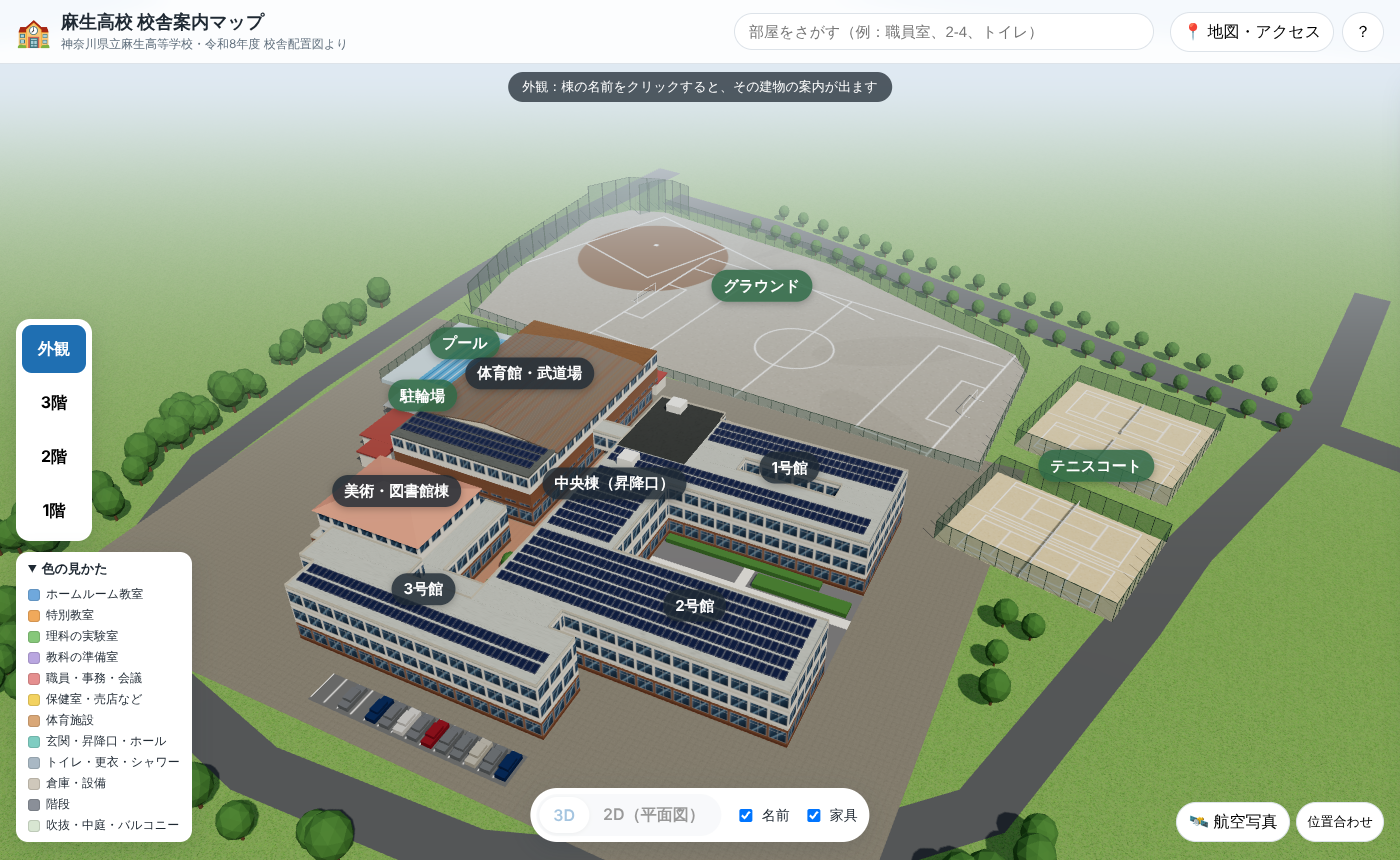
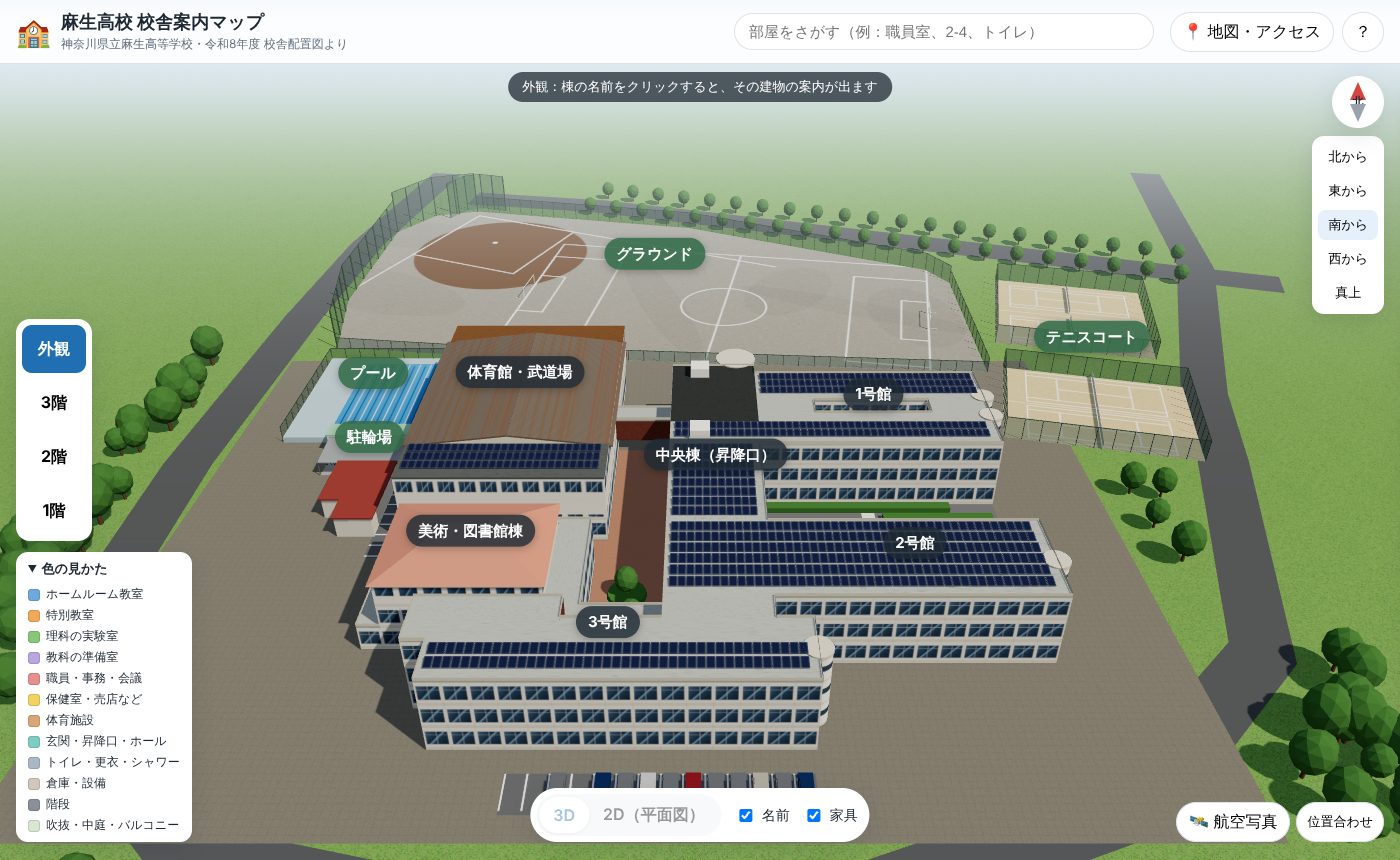
3D写真をもとに外壁を再現、見る方向のボタンと方位磁針を追加
- 教室棟の長い面は白、東西の端の壁と中央棟北側・渡り廊下は茶色いレンガタイル
- 棟の端の白い丸い階段塔、中央棟北東の白い円筒形の塔を追加
- 中央棟の3階の北端を1・2階とそろえた
- 中庭の植え込みを写真に合わせた（だ円形の植え込み、細い植え込み）
- 北・東・南・西・真上から見るボタンと方位磁針

Claude-Session: https://claude.ai/code/session_01M9wHQs55mZUAc8DpBE4YQk

diff --git a/js/app.js b/js/app.js
@@ -18,6 +18,7 @@ const Z = (r) => (r - R_MID) * RH;
 const base = (f) => (f - 1) * FH;
 const rectOf = (o) => ({ x0: X(o.c0), x1: X(o.c1 + 1), z0: Z(o.r0), z1: Z(o.r1 + 1) });
 const key = (c, r) => c + "," + r;
+const inCells = (c, r, [c0, r0, c1, r1]) => c >= c0 && c <= c1 && r >= r0 && r <= r1;
 
 // ---------- 部屋データ ----------
 const ROOMS = ROOMS_RAW.map((r) => {
@@ -169,7 +170,6 @@ const yFromFloor = (m) => H - m * PX; // 床からの高さ(m) → canvas の y
 // 外壁の色（白い壁と茶色いタイルの壁）
 const PALETTE = {
   white: { base: "#f1eee7", band: "#e1ddd3", line: "#d3cec2", tile: false },
-  brown: { base: "#8d5f42", band: "#7b5038", line: "#6d4631", tile: true },
 };
 function wallBase(g, p) {
   g.fillStyle = p.base; g.fillRect(0, 0, W, H);
@@ -201,7 +201,40 @@ function makeSchoolTex(p) {
   });
 }
 const texSchool = makeSchoolTex(PALETTE.white);
-const texSchoolBrown = makeSchoolTex(PALETTE.brown);
+
+// 茶色いレンガタイルの壁（端の壁。窓はほとんどない）
+const texBrick = canvasTex(W, H, (g) => {
+  g.fillStyle = "#7e4535"; g.fillRect(0, 0, W, H);
+  const bh = 0.12 * PX, bw = 0.3 * PX;
+  for (let row = 0, y = 0; y < H; y += bh, row++) {
+    for (let x = -(row % 2) * bw / 2; x < W; x += bw) {
+      const v = Math.random() * 18 - 9;
+      g.fillStyle = `rgb(${126 + v},${69 + v * 0.6},${53 + v * 0.5})`;
+      g.fillRect(x + 1, y + 1, bw - 2, bh - 2);
+    }
+  }
+  // 床の位置の目地（少し濃い帯）
+  g.fillStyle = "rgba(60,25,15,0.35)"; g.fillRect(0, yFromFloor(0.05), W, 4);
+});
+
+// 丸い階段塔（白い壁に横長の窓の帯）
+const texStack = canvasTex(256, H, (g, w, h) => {
+  g.fillStyle = "#f3f1ec"; g.fillRect(0, 0, w, h);
+  noise(g, w, h, 0.05);
+  g.fillStyle = "#5b6d7e"; g.fillRect(0, yFromFloor(2.4), w, 0.55 * PX);
+  g.fillStyle = "rgba(255,255,255,0.35)"; g.fillRect(0, yFromFloor(2.4), w, 4);
+  g.fillStyle = "#d9d5cc"; g.fillRect(0, yFromFloor(1.15), w, 3);
+  g.fillStyle = "#dcd8cf"; g.fillRect(0, yFromFloor(0.35), w, 0.35 * PX);
+}, true);
+texStack.repeat.set(4, 1);
+const texTower = canvasTex(256, H, (g, w, h) => {
+  g.fillStyle = "#f3f1ec"; g.fillRect(0, 0, w, h);
+  noise(g, w, h, 0.05);
+  // 横じまの帯（手すり壁）と窓
+  g.fillStyle = "#c9c6bd"; for (const m of [0.95, 2.35]) g.fillRect(0, yFromFloor(m), w, 4);
+  g.fillStyle = "#5b6d7e"; g.fillRect(0, yFromFloor(2.25), w, 0.7 * PX);
+}, true);
+texTower.repeat.set(6, 1);
 
 const makeGymLow = (p) => canvasTex(W, H, (g) => {
   wallBase(g, p);
@@ -214,7 +247,6 @@ const makeGymLow = (p) => canvasTex(W, H, (g) => {
   for (let i = 0; i < 6; i++) g.fillRect(i * W / 6, 0, 2, yFromFloor(1.1));
 });
 const texGymLow = makeGymLow(PALETTE.white);
-const texGymLowBrown = makeGymLow(PALETTE.brown);
 const texGymHigh = canvasTex(W, H, (g) => {
   wallBase(g, PALETTE.white);
   const x = 0.3 * PX, w = 2.4 * PX, y = yFromFloor(3.2), h = 1.9 * PX;
@@ -265,7 +297,7 @@ const texRoofTop = canvasTex(128, 128, (g, w, h) => {
 
 // ---------- 外壁を作る ----------
 // 輪郭セルの集合から、外側に面した辺を探して壁の板にする
-function boundarySegments(cells) {
+function boundarySegments(cells, classify = null) {
   const segs = [];
   const dirs = [
     { dc: 0, dr: -1, n: [0, -1] }, // 北（図面の上）
@@ -281,8 +313,9 @@ function boundarySegments(cells) {
       const horizontal = d.dr !== 0;
       const line = horizontal ? r + (d.dr > 0 ? 1 : 0) : c + (d.dc > 0 ? 1 : 0);
       const pos = horizontal ? c : r;
-      const gk = `${di}|${line}|${style}`;
-      if (!groups.has(gk)) groups.set(gk, { di, line, style, pos: [] });
+      const st = classify ? classify(c, r, d, style) : style;
+      const gk = `${di}|${line}|${st}`;
+      if (!groups.has(gk)) groups.set(gk, { di, line, style: st, pos: [] });
       groups.get(gk).pos.push(pos);
     });
   }
@@ -400,12 +433,13 @@ function solarPanels(rects, y) {
 }
 const matSlab = new THREE.MeshStandardMaterial({ color: 0xeeebe4, roughness: 0.95 });
 const wallMat = (map) => new THREE.MeshStandardMaterial({ map, roughness: 0.82, metalness: 0.0 });
+const matStack = new THREE.MeshStandardMaterial({ map: texStack, roughness: 0.8 });
+const matTower = new THREE.MeshStandardMaterial({ map: texTower, roughness: 0.8 });
 const MAT_WALL = {
   school: wallMat(texSchool),
   high: wallMat(texHigh),
-  schoolBrown: wallMat(texSchoolBrown),
+  brick: wallMat(texBrick),
   gym2: wallMat(texGymLow),
-  gym2Brown: wallMat(texGymLowBrown),
   gym3: wallMat(texGymHigh),
 };
 
@@ -415,15 +449,31 @@ const buildingGroup = new THREE.Group();
 scene.add(buildingGroup);
 
 for (const f of [1, 2, 3]) {
-  const segs = boundarySegments(OCC[f]);
+  // 外壁の色分け（info.js の FACADE で設定）
+  const facade = (c, r, d, style) => {
+    if (style === "gym") return "gym" + f;
+    if (style === "high") return "high";
+    if (OPEN_COURTS.some((rc) => inCells(c + d.dc, r + d.dr, rc))) return "school"; // 光庭のまわりは白
+    if (FACADE.brick.some((rc) => inCells(c, r, rc))) return "brick";
+    if (d.dc !== 0 && FACADE.endWallWings.some((rc) => inCells(c, r, rc))) return "brick"; // 棟の東西の端
+    return "school";
+  };
+  const segs = boundarySegments(OCC[f], facade);
   const ext = new THREE.Group();
   const byStyle = {};
-  for (const s of segs) {
-    // 外壁の色分け（info.js の FACADE で設定）
-    let st = s.style === "gym" ? "gym" + f : s.style;
-    if (st === "school" && FACADE.brownFloors.includes(f)) st = "schoolBrown";
-    if (st === "gym2" && FACADE.gymBrownFloors.includes(2)) st = "gym2Brown";
-    (byStyle[st] ||= []).push(s);
+  for (const s of segs) (byStyle[s.style] ||= []).push(s);
+  // 白い丸い階段塔
+  for (const t of FACADE.roundStairs) {
+    const m = new THREE.Mesh(new THREE.CylinderGeometry(t.r, t.r, FH, 28), t.tower ? matTower : matStack);
+    m.position.set(t.x, base(f) + FH / 2, t.z);
+    m.castShadow = m.receiveShadow = true;
+    ext.add(m);
+    if (f === 3) {
+      const cap = new THREE.Mesh(new THREE.CylinderGeometry(t.r + 0.1, t.r + 0.1, 0.5, 28), matParapet);
+      cap.position.set(t.x, base(f) + FH + 0.25, t.z);
+      cap.castShadow = true;
+      ext.add(cap);
+    }
   }
   for (const [st, list] of Object.entries(byStyle)) {
     const m = new THREE.Mesh(wallGeometry(list, base(f), FH), MAT_WALL[st] || MAT_WALL.school);
@@ -628,12 +678,22 @@ scene.add(outdoor);
   flatRect(24.5, 26.5, Z(32), Z(47), walk, -0.185);
   flatRect(X(42), X(66), 2.5, 4.5, walk, -0.185);
   const hedge = new THREE.MeshStandardMaterial({ color: 0x4f7d3a, roughness: 1 });
-  for (const [x0, x1, z0, z1] of [[9.5, 38, -3.3, -1.7], [27.5, 44, -0.6, 2.2], [11, 23, 6.5, 8.5]]) {
+  // 1号館ぞいと2号館ぞいの細い植え込み
+  for (const [x0, x1, z0, z1] of [[10, 44, -3.4, -2.4], [30, 44, 13.6, 14.6]]) {
     const m = new THREE.Mesh(new THREE.BoxGeometry(x1 - x0, 0.9, z1 - z0), hedge);
     m.position.set((x0 + x1) / 2, 0.25, (z0 + z1) / 2);
     m.castShadow = m.receiveShadow = true;
     outdoor.add(m);
   }
+}
+
+// 中庭の東西の通路のまんなかにある、だ円形の植え込み
+{
+  const m = new THREE.Mesh(new THREE.CylinderGeometry(1, 1, 0.9, 24), new THREE.MeshStandardMaterial({ color: 0x4a7a36, roughness: 1 }));
+  m.scale.set(5, 1, 1.4);
+  m.position.set(35, 0.25, 3.5);
+  m.castShadow = m.receiveShadow = true;
+  outdoor.add(m);
 }
 
 // 光庭の芝生
@@ -973,9 +1033,10 @@ function showSite(it) {
   flyTo(new THREE.Vector3(it.x + 30, 50, it.z + 55), new THREE.Vector3(it.x, 0, it.z));
 }
 
-function openPanel() { panel.classList.add("open"); }
+function openPanel() { panel.classList.add("open"); document.body.classList.add("panel-open"); }
 function closePanel() {
   panel.classList.remove("open");
+  document.body.classList.remove("panel-open");
   if (state.selected?.mesh) {
     state.selected.mesh.material.emissive.setHex(0x000000);
     state.selected.label?.classList.remove("selected");
@@ -1057,6 +1118,18 @@ document.getElementById("labels-toggle").addEventListener("change", (e) => { lab
 document.getElementById("furniture-toggle").addEventListener("change", (e) => {
   for (const f of [1, 2, 3]) layers.furniture[f].visible = e.target.checked;
 });
+
+// ---------- 見る方向 ----------
+const DIRS = {
+  n: [0, 95, -175], s: [0, 95, 125], e: [160, 95, -25], w: [-160, 95, -25], top: [0, 230, -24.9],
+};
+document.querySelectorAll(".dir-btns button").forEach((b) => b.addEventListener("click", () => {
+  if (state.view === "2d" && state.floor !== 0) setView("3d");
+  const [x, y, z] = DIRS[b.dataset.dir];
+  const ty = state.floor ? base(state.floor) : 0;
+  flyTo(new THREE.Vector3(x, y + ty, z), new THREE.Vector3(0, ty, -25), 900);
+}));
+const compassEl = document.getElementById("compass");
 
 // ---------- 航空写真 ----------
 const ALIGN_KEY = "asao-aerial-align";
@@ -1173,6 +1246,9 @@ function tick(now) {
     if (k >= 1) anim = null;
   }
   const cam = useCamera();
+  // 方位磁針（画面の上がどの方角か）
+  const az = cam === ortho ? 0 : controls3d.getAzimuthalAngle();
+  compassEl.style.transform = `rotate(${THREE.MathUtils.radToDeg(az)}deg)`;
   (cam === ortho ? controls2d : controls3d).update();
   renderer.render(scene, cam);
   labelRenderer.render(scene, cam);

diff --git a/index.html b/index.html
@@ -57,6 +57,17 @@
 
     <p id="floor-note" class="floor-note"></p>
 
+    <div class="dir-box">
+      <div id="compass" class="compass" title="上が北"><span>北</span></div>
+      <div class="dir-btns" aria-label="見る方向">
+        <button data-dir="n">北から</button>
+        <button data-dir="e">東から</button>
+        <button data-dir="s">南から</button>
+        <button data-dir="w">西から</button>
+        <button data-dir="top">真上</button>
+      </div>
+    </div>
+
     <details class="legend" open>
       <summary>色の見かた</summary>
       <ul id="legend-list"></ul>
@@ -103,6 +114,7 @@
     <ul class="help">
       <li><b>外観</b>：校舎全体を立体で見られます。建物や「1号館」などの名前を押すと、その建物の案内が出ます。</li>
       <li><b>1階・2階・3階</b>：その階の部屋が色分けで表示されます。部屋を押すと紹介と、近くのトイレ・階段が出ます。</li>
+      <li><b>見る方向</b>：右上の「北から」「東から」などのボタンで、その方角から校舎を見られます。丸い方位磁針の赤い先が北です。</li>
       <li><b>3D / 2D</b>：2Dにすると、上から見た平面図（案内図）になります。</li>
       <li><b>動かし方</b>：ドラッグで回転、右ドラッグ（スマホは2本指）で移動、ホイール（スマホはピンチ）で拡大・縮小。</li>
       <li><b>検索</b>：上の検索欄に「職員室」「2-4」などと入れると、その場所へ移動します。</li>
@@ -110,7 +122,7 @@
       <li><b>家具</b>：各階の表示では、教室の机・椅子・黒板、実験台、本棚なども表示されます。下の「家具」のチェックで消せます。</li>
       <li><b>リンク</b>：部屋の紹介にある「リンクをコピー」で、その部屋を開いた状態のURLを共有できます（QRコードにして掲示するのもおすすめです）。</li>
     </ul>
-    <p class="muted">部屋の位置・大きさは学校の校舎配置図（Excel）から読み取っています。階段の位置、家具の並び、外壁の窓・まわりの木は見やすさのためのイメージです。グラウンド・テニスコート・プール・駐輪場の位置や屋根の色は、Googleマップの航空写真から読み取ったおおよそのものです。外壁の色分けは推定です。</p>
+    <p class="muted">部屋の位置・大きさは学校の校舎配置図（Excel）から読み取っています。階段の位置、家具の並び、外壁の窓・まわりの木は見やすさのためのイメージです。グラウンド・テニスコート・プール・駐輪場の位置や屋根の色は、Googleマップの航空写真から読み取ったおおよそのものです。外壁の色は Googleマップの3D表示の写真から読み取ったものです。</p>
   </dialog>
 
   <script type="module" src="js/app.js"></script>

diff --git a/css/style.css b/css/style.css
@@ -126,6 +126,26 @@ main { position: fixed; inset: 0; }
 .legend ul { list-style: none; margin: 8px 0 0; padding: 0; display: grid; gap: 4px; }
 .legend li { display: flex; align-items: center; gap: 6px; }
 
+/* ---------- 方角 ---------- */
+.dir-box { position: absolute; right: 16px; top: 76px; z-index: 10; display: flex; flex-direction: column; align-items: flex-end; gap: 8px; }
+.compass {
+  width: 52px; height: 52px; border-radius: 50%; background: #fff; box-shadow: var(--shadow);
+  position: relative; transition: transform .1s linear;
+}
+.compass::before {
+  content: ""; position: absolute; left: 50%; top: 6px; transform: translateX(-50%);
+  border-left: 8px solid transparent; border-right: 8px solid transparent; border-bottom: 18px solid #d64541;
+}
+.compass::after {
+  content: ""; position: absolute; left: 50%; bottom: 6px; transform: translateX(-50%);
+  border-left: 8px solid transparent; border-right: 8px solid transparent; border-top: 18px solid #9aa3ad;
+}
+.compass span { position: absolute; left: 0; right: 0; top: 18px; text-align: center; font-size: 11px; font-weight: 700; color: #1f2933; }
+.dir-btns { display: flex; flex-direction: column; gap: 4px; background: #fff; padding: 6px; border-radius: 12px; box-shadow: var(--shadow); }
+.dir-btns button { border: 0; background: none; padding: 6px 10px; border-radius: 8px; font-size: 13px; }
+.dir-btns button:hover { background: var(--accent-soft); }
+#panel.open ~ .dir-box, body.panel-open .dir-box { display: none; }
+
 /* ---------- 航空写真 ---------- */
 .aerial-box {
   position: absolute; right: 16px; bottom: 18px; z-index: 12; max-width: 300px;
@@ -212,6 +232,9 @@ dialog::backdrop { background: rgba(20, 30, 40, 0.45); }
   .floor-btn { width: 52px; height: 40px; font-size: 14px; }
   .legend { display: none; }
   .aerial-box { bottom: 74px; right: 10px; }
+  .dir-box { top: 112px; right: 10px; }
+  .compass { width: 44px; height: 44px; }
+  .dir-btns button { padding: 4px 8px; font-size: 12px; }
   #align-panel { width: min(300px, calc(100vw - 20px)); }
   .view-bar { bottom: 14px; gap: 8px; }
   .check { font-size: 12px; }

diff --git a/README.md b/README.md
@@ -11,11 +11,14 @@
 - **校舎のまわり**：グラウンド（野球・サッカー）、テニスコート、プール、駐輪場（推定）、並木。位置は航空写真から読み取ったもので、`js/info.js` の `SITE` で変えられます。
 - **屋根**：航空写真に合わせて、1・2・3号館の太陽光パネル、中央棟の黒い屋根、体育館の茶色い金属屋根、図書室の棟のピンクの寄棟屋根を再現しています。
 - **航空写真**：国土地理院の航空写真を地面に表示し、「位置合わせ」で校舎と重ねられます。合わせた数字を `js/info.js` の `AERIAL_ALIGN` に書くと全員の画面に反映されます。
+- **見る方向**：右上の「北から・東から・南から・西から・真上」で視点を切り替えられます。方位磁針で北の向きがわかります。
 - **地図・アクセス**：Googleマップ（航空写真）と所在地・アクセス情報。
 
 | 3D（外観） | 2D（平面図） |
 | --- | --- |
 | ![3D](docs/screenshot-3d.png) | ![2D](docs/screenshot-2d.png) |
+
+![東から見た校舎](docs/screenshot-east.png)
 
 ![教室の中](docs/screenshot-classroom.png)
 
@@ -34,7 +37,7 @@ GitHub Pages で公開すると、スマホやパソコンのブラウザからU
 - 部屋の位置・大きさ・名前は、学校の「令和8年度 校舎配置図」（Excel）のセルから自動で読み取っています。
 - 階段の位置は図面の記号から読み取ったおおよその位置です。
 - 屋根・屋外施設（グラウンド・テニスコート・プール・駐輪場・道路・駐車場）の位置はGoogleマップの航空写真をもとにしています。
-- 外壁の色分け（1階が茶色いタイル、2・3階が白）は推定です。`js/info.js` の `FACADE` で変えられます。
+- 外壁はGoogleマップの3D表示の写真をもとに、教室棟の長い面は白、棟の東西の端の壁と中央棟の北側は茶色いレンガタイル、端には白い丸い階段塔、中央棟の北東には白い円筒形の塔、としています（`js/info.js` の `FACADE`）。
 - 普通教室は黒板が西側、特別教室は黒板・教卓・教壇が北側になるように家具を置いています。
 - 学校の所在地・アクセスはインターネット上の公開情報をもとにしています。
 
